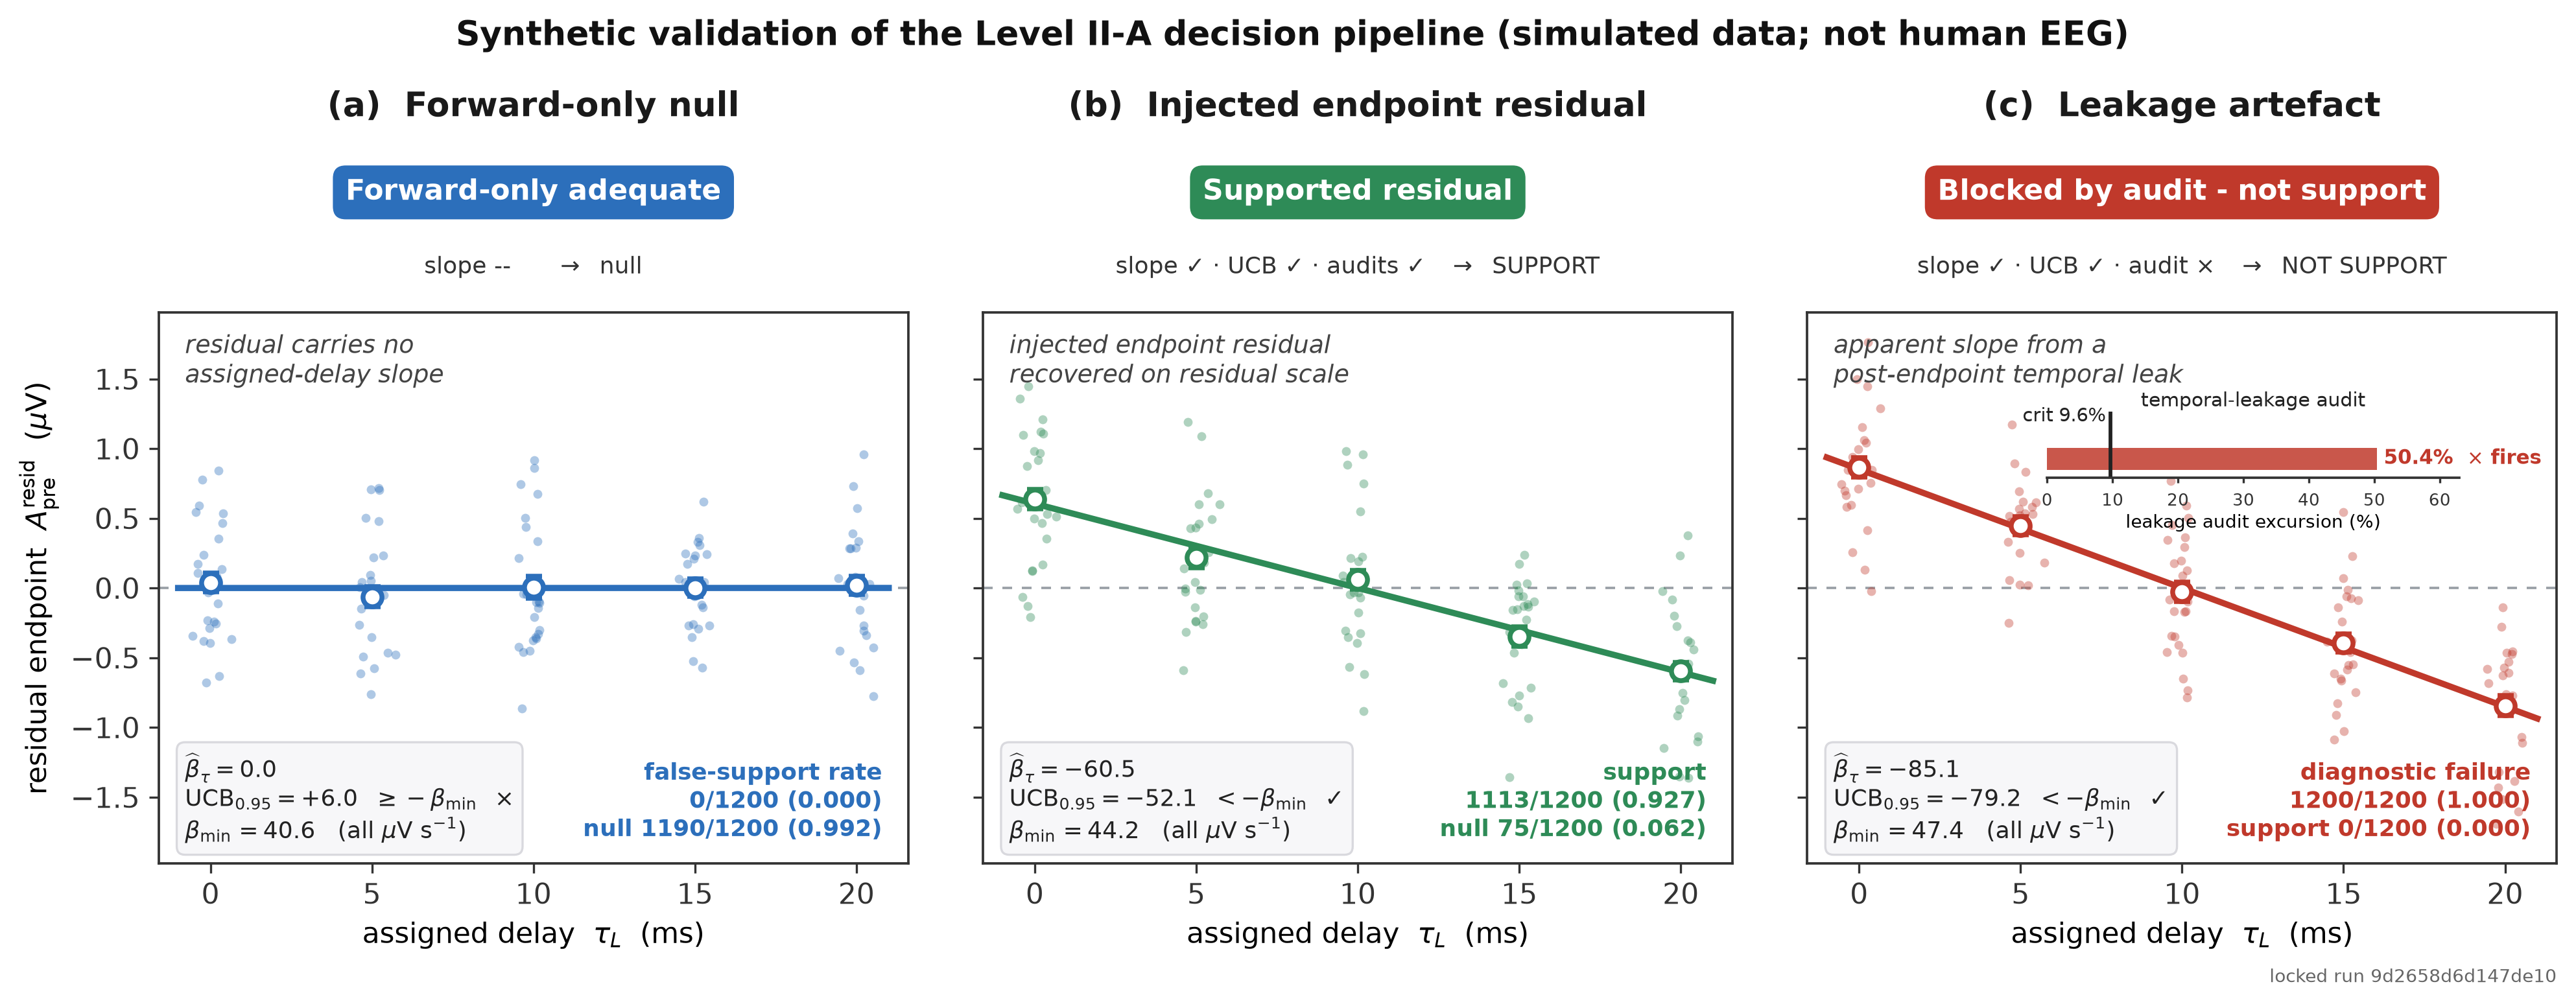
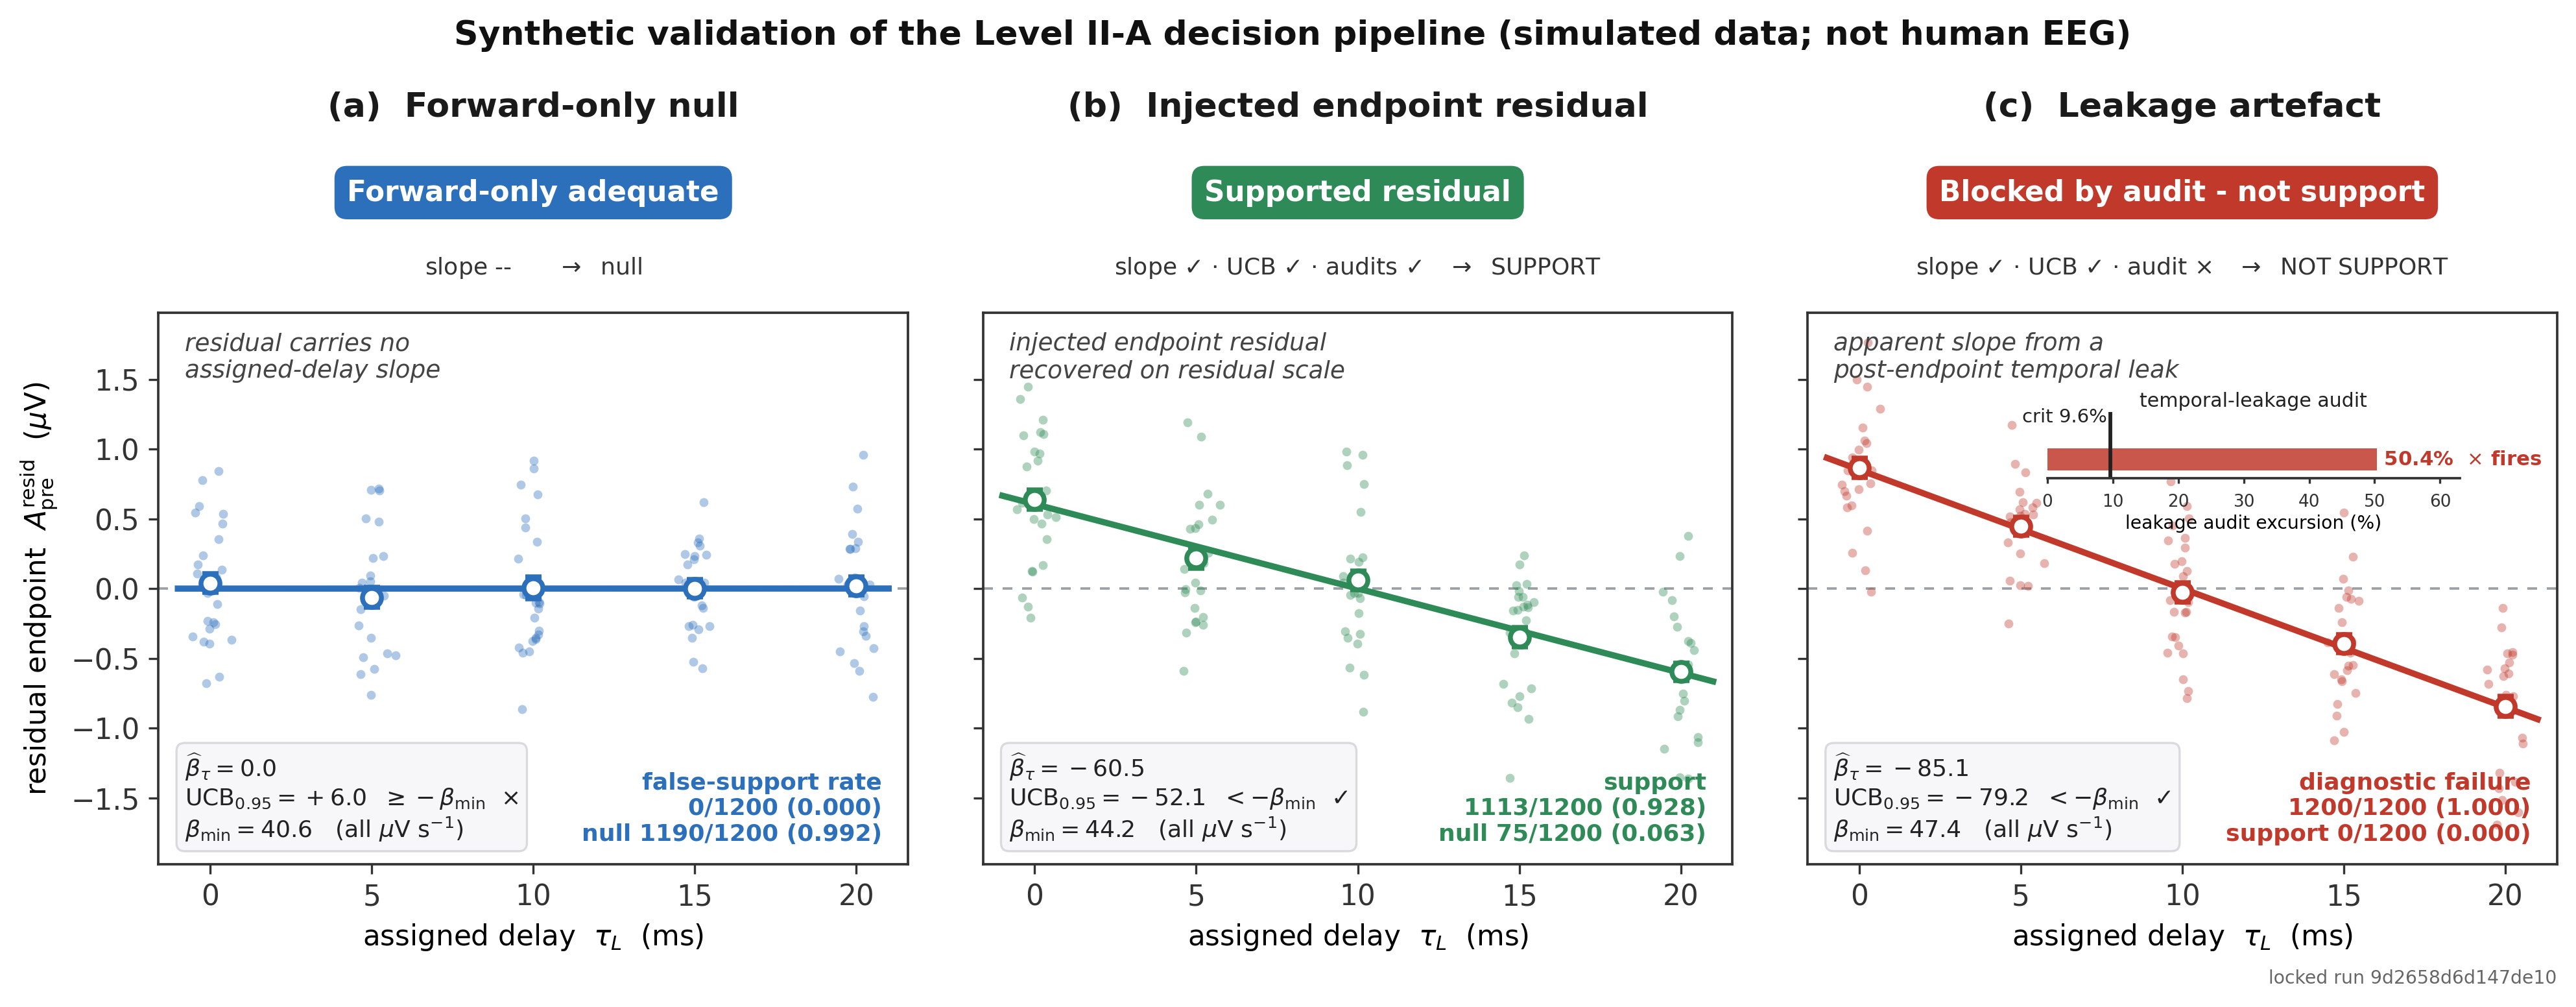
Fix operating-characteristics rounding and artifact provenance

diff --git a/src/cri_leveliia/tables.py b/src/cri_leveliia/tables.py
@@ -19,6 +19,7 @@ rates.
 from __future__ import annotations
 
 import numbers
+from decimal import Decimal, InvalidOperation, ROUND_HALF_UP
 from pathlib import Path
 
 import pandas as pd
@@ -68,19 +69,37 @@ OUTCOME_RATE_TO_COUNT = {
 
 
 def _latex_escape_text(v):
+    """Escape plain-text cells for LaTeX."""
     return str(v).replace("_", "\\_")
 
 
+def _round_half_up_str(value, places):
+    """Return a fixed-decimal string rounded half-up."""
+    try:
+        dec = Decimal(str(value))
+    except (InvalidOperation, ValueError):
+        return str(value)
+
+    if not dec.is_finite():
+        return str(value)
+
+    quant = Decimal("1").scaleb(-places)
+    rounded = dec.quantize(quant, rounding=ROUND_HALF_UP)
+    return f"{rounded:.{places}f}"
+
+
 def _fmt(v):
+    """Format ordinary numeric table cells."""
     if isinstance(v, numbers.Real) and not isinstance(v, bool):
         v = float(v)
         if v == 0:
             return "0"
-        if abs(v) < 1 and abs(v) >= 1e-4:
-            return f"{v:.3f}"
+        if 1e-4 <= abs(v) < 1:
+            return _round_half_up_str(v, 3)
         if abs(v) >= 1:
-            return f"{v:.1f}"
+            return _round_half_up_str(v, 1)
         return f"{v:.2e}"
+
     return str(v)
 
 
@@ -89,7 +108,8 @@ def _infer_run_hash_from_path(path):
     if path is None:
         return None
 
-    parts = Path(path).parts
+    # Normalize Windows and POSIX separators so inference works on either OS.
+    parts = [p for p in str(path).replace("\\", "/").split("/") if p]
     lowered = [p.lower() for p in parts]
 
     if "outputs" not in lowered:
@@ -139,12 +159,20 @@ def _fmt_outcome_count_rate(summary, rate_key):
     count_key = OUTCOME_RATE_TO_COUNT[rate_key]
     M = int(summary.get("M", 0))
 
-    if count_key in summary:
-        count = int(summary[count_key])
+    raw_count = summary.get(count_key, None)
+    if raw_count is not None and not pd.isna(raw_count):
+        count = int(raw_count)
     else:
         count = int(round(rate * M))
 
-    return f"{count}/{M} ({rate:.3f})"
+    if M <= 0:
+        return f"{count}/{M} ({_round_half_up_str(rate, 3)})"
+
+    display_rate = (Decimal(count) / Decimal(M)).quantize(
+        Decimal("0.001"),
+        rounding=ROUND_HALF_UP,
+    )
+    return f"{count}/{M} ({display_rate})"
 
 
 def _fmt_cell(summary, key):
@@ -160,6 +188,9 @@ def _fmt_cell(summary, key):
 
 
 def operating_characteristics_csv(summaries, path):
+    path = Path(path)
+    path.parent.mkdir(parents=True, exist_ok=True)
+
     df = pd.DataFrame(summaries)
     df.to_csv(path, index=False)
     return df
@@ -201,7 +232,9 @@ def operating_characteristics_latex(
     lines.append("\\end{tabular}")
     lines.append("\\end{table}")
 
-    with open(path, "w", encoding="utf-8") as fh:
+    path = Path(path)
+    path.parent.mkdir(parents=True, exist_ok=True)
+    with path.open("w", encoding="utf-8") as fh:
         fh.write("\n".join(lines) + "\n")
 
     return "\n".join(lines)
@@ -254,7 +287,9 @@ def collider_subtable_latex(
     lines.append("\\end{tabular}")
     lines.append("\\end{table}")
 
-    with open(path, "w", encoding="utf-8") as fh:
+    path = Path(path)
+    path.parent.mkdir(parents=True, exist_ok=True)
+    with path.open("w", encoding="utf-8") as fh:
         fh.write("\n".join(lines) + "\n")
 
     return "\n".join(lines)

diff --git a/src/cri_leveliia/formatting.py b/src/cri_leveliia/formatting.py
@@ -1,0 +1,28 @@
+from __future__ import annotations
+
+from decimal import Decimal, ROUND_HALF_UP
+
+_RATE_Q = Decimal("0.001")
+
+
+def rate_display_from_count(count: int, total: int) -> str:
+    """Display count/total as a three-decimal ROUND_HALF_UP rate."""
+    count_i = int(count)
+    total_i = int(total)
+    if total_i <= 0:
+        raise ValueError("total must be positive")
+    value = (Decimal(count_i) / Decimal(total_i)).quantize(
+        _RATE_Q, rounding=ROUND_HALF_UP
+    )
+    return f"{value:.3f}"
+
+
+def rate_display(value: object) -> str:
+    """Display a scalar rate using Decimal(str(value)) and ROUND_HALF_UP."""
+    dec = Decimal(str(value)).quantize(_RATE_Q, rounding=ROUND_HALF_UP)
+    return f"{dec:.3f}"
+
+
+def count_rate_display(count: int, total: int) -> str:
+    """Display an exact count and its count-derived rounded rate."""
+    return f"{int(count)}/{int(total)} ({rate_display_from_count(count, total)})"

diff --git a/scripts/run_all.py b/scripts/run_all.py
@@ -124,12 +124,11 @@ def main():
             label="tab:si-collider-sweep")
 
     T.operating_characteristics_csv(summaries, run_dir / "summary" / "operating_characteristics.csv")
-    T.operating_characteristics_latex(
-        summaries, run_dir / "tables" / "operating_characteristics.tex",
-        caption=("Realised operating characteristics of the locked Level II-A "
-                 "pipeline on simulated data (run hash \\texttt{" + run_hash + "}). "
-                 "Rates are fractions of $M$ Monte Carlo datasets. Not human EEG."),
-        label="tab:si-operating-characteristics")
+    # Manuscript-facing operating-characteristics tables are generated from
+    # summary/operating_characteristics.csv by scripts/make_tables.py. The
+    # legacy single wide LaTeX table is intentionally no longer emitted, because
+    # it duplicated the split SI tables and previously allowed display-rounding
+    # drift across archived artifacts.
 
     with open(run_dir / "summary" / "representative_index.json", "w") as fh:
         json.dump(rep_index, fh, indent=2)

diff --git a/scripts/verify_outputs.py b/scripts/verify_outputs.py
@@ -1,4 +1,4 @@
-#!/usr/bin/env python3
+#!/usr/bin/env python3
 """Verify benchmark output invariants and operating-characteristic thresholds.
 
 Usage:
@@ -31,6 +31,11 @@ import argparse
 import math
 import sys
 from pathlib import Path
+import sys
+
+ROOT_FOR_IMPORT = Path(__file__).resolve().parents[1]
+sys.path.insert(0, str(ROOT_FOR_IMPORT / "src"))
+from cri_leveliia.formatting import rate_display  # noqa: E402
 
 import pandas as pd
 
@@ -317,9 +322,9 @@ def _check_operating_thresholds(df_indexed: pd.DataFrame, smoke: bool, errors: l
         passed = _cmp(v, op, t)
 
         if passed:
-            print(f"[ok  ] {desc:38s} {scen}.{col}={v:.3f} {op} {t:.3f}")
+            print(f"[ok  ] {desc:38s} {scen}.{col}={rate_display(v)} {op} {rate_display(t)}")
         else:
-            _fail(errors, f"{desc}: {scen}.{col}={v:.3f} not {op} {t:.3f}")
+            _fail(errors, f"{desc}: {scen}.{col}={rate_display(v)} not {op} {rate_display(t)}")
 
 
 def _check_locked_manuscript_counts(df_indexed: pd.DataFrame, run_hash: str, errors: list[str]) -> None:

diff --git a/scripts/make_figure2.py b/scripts/make_figure2.py
@@ -36,6 +36,7 @@ ROOT = Path(__file__).resolve().parents[1]
 sys.path.insert(0, str(ROOT / "src"))
 
 from cri_leveliia import comparator, dgp  # noqa: E402
+from cri_leveliia.formatting import count_rate_display  # noqa: E402
 from cri_leveliia.benchmarks import _replicate_seed, pipeline_once  # noqa: E402
 
 
@@ -119,8 +120,7 @@ def _count(summary: dict, count_key: str, rate_key: str) -> int:
 def _count_rate(summary: dict, count_key: str, rate_key: str) -> str:
     M = _as_int(summary.get("M", 0))
     n = _count(summary, count_key, rate_key)
-    rate = _as_float(summary.get(rate_key, n / M if M else 0.0))
-    return f"{n}/{M} ({rate:.3f})"
+    return count_rate_display(n, M)
 
 
 def _panel_objects(cfg: dict, base_seed: int, replicate: int) -> dict:
@@ -522,9 +522,15 @@ def main() -> None:
     shutil.copy(out_pdf, man / "CRI_synthetic_validation.pdf")
     shutil.copy(out_png, man / "CRI_synthetic_validation.png")
 
+    persp = ROOT / "CRI_Perspective" / "Figures"
+    persp.mkdir(parents=True, exist_ok=True)
+    shutil.copy(out_pdf, persp / "CRI_synthetic_validation.pdf")
+    shutil.copy(out_png, persp / "CRI_synthetic_validation.png")
+
     print(f"[make_figure2] wrote {out_pdf}")
     print("[make_figure2] copied manuscript/figures/CRI_synthetic_validation.pdf")
     print("[make_figure2] copied manuscript/figures/CRI_synthetic_validation.png")
+    print("[make_figure2] copied CRI_Perspective/Figures/CRI_synthetic_validation.{pdf,png}")
 
 
 if __name__ == "__main__":

diff --git a/tests/test_formatting.py b/tests/test_formatting.py
@@ -1,0 +1,8 @@
+from cri_leveliia.formatting import count_rate_display, rate_display_from_count
+
+
+def test_count_rate_round_half_up_boundary_values():
+    assert rate_display_from_count(1113, 1200) == "0.928"
+    assert rate_display_from_count(75, 1200) == "0.063"
+    assert count_rate_display(1113, 1200) == "1113/1200 (0.928)"
+    assert count_rate_display(75, 1200) == "75/1200 (0.063)"

diff --git a/scripts/make_split_oc_tables.py b/scripts/make_split_oc_tables.py
@@ -323,7 +323,11 @@ def write_split_tables(
         f"in Table~\\ref{{tab:si-oc-outcomes}}. Run hash \\texttt{{{actual_hash}}}; "
         f"$M={m}$ datasets per scenario; $P={p}$ participants; assigned-delay support "
         f"${support_text}$ ms; "
-        f"$\\sigma_{{\\mathrm{{resid}}}}={sigma_resid}\\,\\mu$V; not human EEG."
+        f"$\\sigma_{{\\mathrm{{resid}}}}={sigma_resid}\\,\\mu$V is the nominal "
+        "generator residual-noise scale; the displayed $\\beta_{\\min}$ is "
+        "recomputed for each scenario from the label-blind realised residual "
+        "scale and retained-trial yield through the locked materiality formula, "
+        "so its variation across rows is expected; not human EEG."
     )
 
     outcome_caption = (

diff --git a/CRI_Perspective/Tables/operating_characteristics_design.tex b/CRI_Perspective/Tables/operating_characteristics_design.tex
@@ -2,7 +2,7 @@
 % Source: outputs/9d2658d6d147de10/summary/operating_characteristics.csv
 \begin{table}[t]
 \centering
-\caption{Benchmark design and slope-resolution summaries for the locked Level II-A pipeline on simulated data. Rates and decision outcomes are reported separately in Table~\ref{tab:si-oc-outcomes}. Run hash \texttt{9d2658d6d147de10}; $M=1200$ datasets per scenario; $P=24$ participants; assigned-delay support $[0,20]$ ms; $\sigma_{\mathrm{resid}}=1\,\mu$V; not human EEG.}
+\caption{Benchmark design and slope-resolution summaries for the locked Level II-A pipeline on simulated data. Rates and decision outcomes are reported separately in Table~\ref{tab:si-oc-outcomes}. Run hash \texttt{9d2658d6d147de10}; $M=1200$ datasets per scenario; $P=24$ participants; assigned-delay support $[0,20]$ ms; $\sigma_{\mathrm{resid}}=1\,\mu$V is the nominal generator residual-noise scale; the displayed $\beta_{\min}$ is recomputed for each scenario from the label-blind realised residual scale and retained-trial yield through the locked materiality formula, so its variation across rows is expected; not human EEG.}
 \label{tab:si-oc-design}
 \footnotesize
 \setlength{\tabcolsep}{3pt}

diff --git a/manuscript/tables/operating_characteristics_design.tex b/manuscript/tables/operating_characteristics_design.tex
@@ -2,7 +2,7 @@
 % Source: outputs/9d2658d6d147de10/summary/operating_characteristics.csv
 \begin{table}[t]
 \centering
-\caption{Benchmark design and slope-resolution summaries for the locked Level II-A pipeline on simulated data. Rates and decision outcomes are reported separately in Table~\ref{tab:si-oc-outcomes}. Run hash \texttt{9d2658d6d147de10}; $M=1200$ datasets per scenario; $P=24$ participants; assigned-delay support $[0,20]$ ms; $\sigma_{\mathrm{resid}}=1\,\mu$V; not human EEG.}
+\caption{Benchmark design and slope-resolution summaries for the locked Level II-A pipeline on simulated data. Rates and decision outcomes are reported separately in Table~\ref{tab:si-oc-outcomes}. Run hash \texttt{9d2658d6d147de10}; $M=1200$ datasets per scenario; $P=24$ participants; assigned-delay support $[0,20]$ ms; $\sigma_{\mathrm{resid}}=1\,\mu$V is the nominal generator residual-noise scale; the displayed $\beta_{\min}$ is recomputed for each scenario from the label-blind realised residual scale and retained-trial yield through the locked materiality formula, so its variation across rows is expected; not human EEG.}
 \label{tab:si-oc-design}
 \footnotesize
 \setlength{\tabcolsep}{3pt}

diff --git a/outputs/9d2658d6d147de10/tables/operating_characteristics_design.tex b/outputs/9d2658d6d147de10/tables/operating_characteristics_design.tex
@@ -2,7 +2,7 @@
 % Source: outputs/9d2658d6d147de10/summary/operating_characteristics.csv
 \begin{table}[t]
 \centering
-\caption{Benchmark design and slope-resolution summaries for the locked Level II-A pipeline on simulated data. Rates and decision outcomes are reported separately in Table~\ref{tab:si-oc-outcomes}. Run hash \texttt{9d2658d6d147de10}; $M=1200$ datasets per scenario; $P=24$ participants; assigned-delay support $[0,20]$ ms; $\sigma_{\mathrm{resid}}=1\,\mu$V; not human EEG.}
+\caption{Benchmark design and slope-resolution summaries for the locked Level II-A pipeline on simulated data. Rates and decision outcomes are reported separately in Table~\ref{tab:si-oc-outcomes}. Run hash \texttt{9d2658d6d147de10}; $M=1200$ datasets per scenario; $P=24$ participants; assigned-delay support $[0,20]$ ms; $\sigma_{\mathrm{resid}}=1\,\mu$V is the nominal generator residual-noise scale; the displayed $\beta_{\min}$ is recomputed for each scenario from the label-blind realised residual scale and retained-trial yield through the locked materiality formula, so its variation across rows is expected; not human EEG.}
 \label{tab:si-oc-design}
 \footnotesize
 \setlength{\tabcolsep}{3pt}

diff --git a/README.md b/README.md
@@ -23,13 +23,13 @@ The corresponding output directory is
 outputs/9d2658d6d147de10/
 ```
 
-The complete machine-generated operating-characteristics table is archived at
+The canonical numeric source for the operating characteristics is
 
 ```text
-outputs/9d2658d6d147de10/tables/operating_characteristics.tex
+outputs/9d2658d6d147de10/summary/operating_characteristics.csv
 ```
 
-For page-width readability, the manuscript may print a split version of the same values, separating design summaries from diagnostic and final-outcome summaries. The authoritative numeric source remains the frozen run directory.
+The manuscript-facing LaTeX tables are generated from that CSV as split design and outcome tables. The legacy single wide operating-characteristics table is not an authoritative manuscript source and is no longer emitted by the release workflow.
 
 ## What the benchmark establishes
 
@@ -163,7 +163,8 @@ outputs/<run_hash>/
   summary/operating_characteristics.csv
   summary/collider_sweep.csv
   summary/representative_index.json
-  tables/operating_characteristics.tex
+  tables/operating_characteristics_design.tex
+  tables/operating_characteristics_outcomes.tex
   tables/collider_sweep.tex
   figures/figure2_validation.pdf
   metadata/run_metadata.json